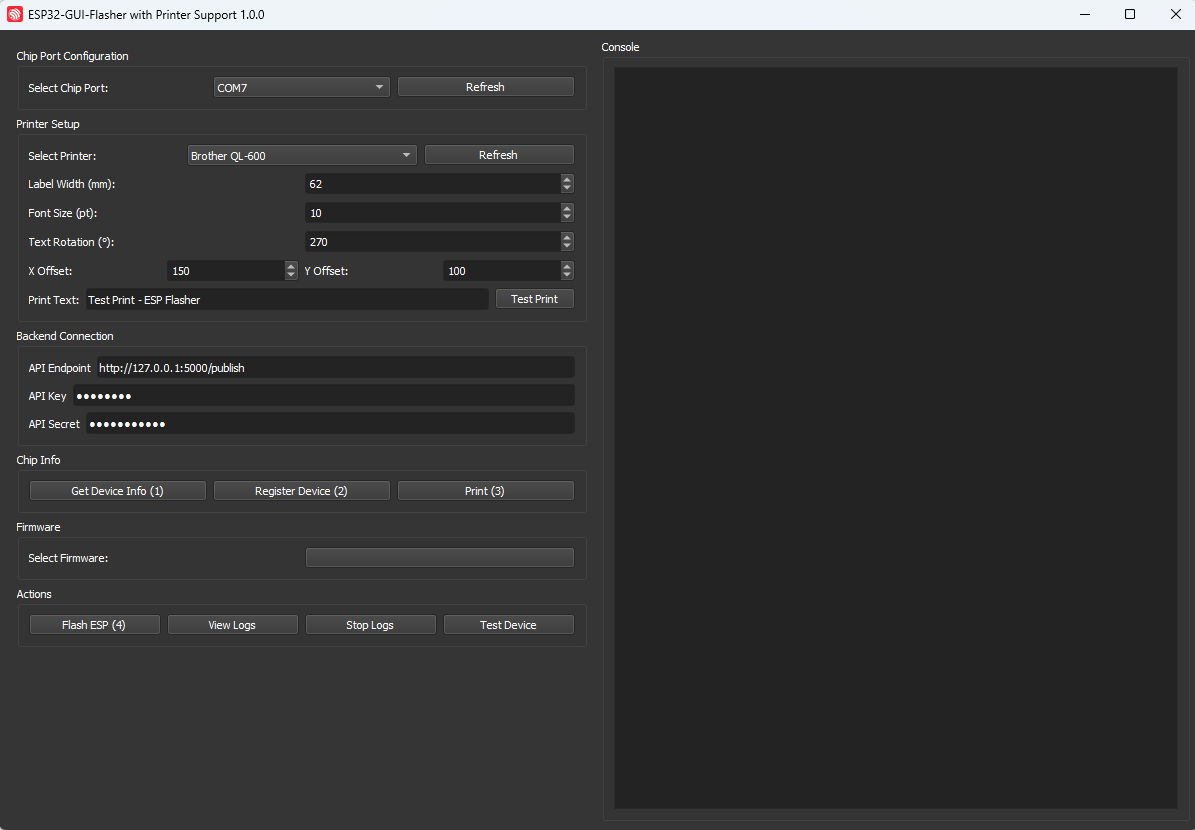
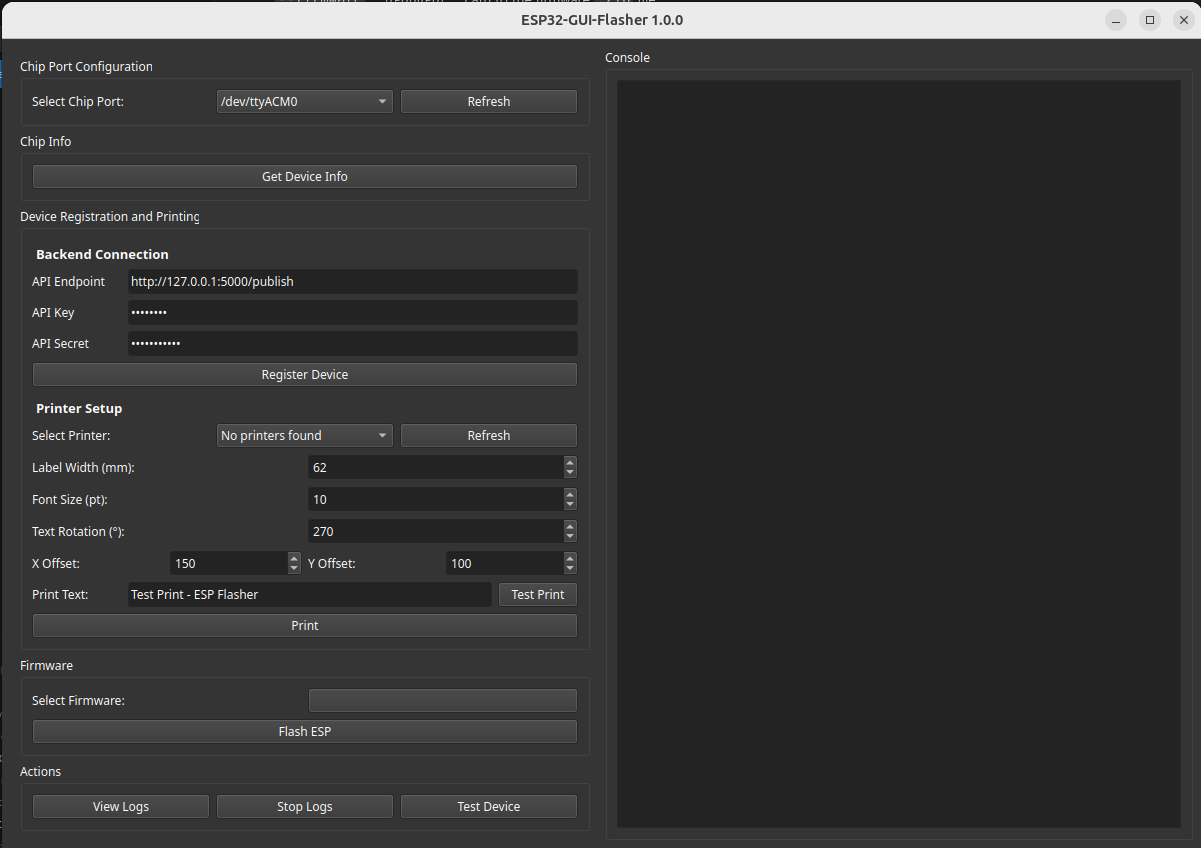
Update docs

diff --git a/README.md b/README.md
@@ -91,7 +91,7 @@ Some of the core functionalities and benefits of ESP32 GUI Flasher include:
 * **Serial Port Detection:** Lists available serial ports (COM ports on Windows, `/dev/tty*` on Linux) for easy selection. A refresh button lets you detect newly plugged devices.
 * **Cross-Platform Printing:** Integrates with the Brother QL series label printers (specifically tested on QL-600) for printing device labels. This uses the [`brother_ql`](https://pypi.org/project/brother-ql/) Python library to send print jobs directly to the printer (via USB or spooler).
 * **Test Print Function:** Allows you to print a test label with custom text to verify printer settings (label alignment, offsets, etc.) before mass printing.
-* **Device Registration Workflow:** Provides fields to input a REST API endpoint, API key, and secret. After flashing, you can fetch a device name or register the device in your system by clicking **Register**, then print a label with that name via **Print** – all within the tool.
+* **Device Registration Workflow:** Provides fields to input a REST API endpoint, API key, and secret. After flashing, you can fetch a device name or register the device in your system by clicking **Register Device**, then print a label with that name via **Print** – all within the tool.
 * **Console Output & Logs:** A built-in console pane shows esptool output, success/error messages, and can stream device logs (after flashing, if you connect to serial logs).
 * **MIT Licensed:** Completely open source ([MIT license](https://github.com/stevanStevic/esp32-gui-flasher/blob/main/LICENSE)) – you can modify and integrate it into your own workflow or contribute improvements.
 
@@ -406,13 +406,13 @@ Keep in mind that label printing in this tool is primarily designed for printing
 
 ## <a name="using-the-esp32-gui-flasher"></a>Using the ESP32 GUI Flasher
 
-When you launch the ESP32 GUI Flasher, you will see the main window divided into sections for Firmware, Chip Port, Backend Connection, Printer Setup, Chip Info, and an action button to flash. There’s also a console output area at the bottom that shows logs and messages.
+When you launch the ESP32 GUI Flasher, you will see the main window divided into sections on the left and a **Console** output area on the right. The left panel contains (from top to bottom): **Chip Port Configuration**, **Chip Info**, any **loaded modules** (e.g. Device Registration and Printing), **Firmware**, and **Actions**.
 
-Here we’ll describe each field/control and how to use it, as well as the general workflow for flashing and printing.
+Here we'll describe each field/control and how to use it, as well as the general workflow for flashing and printing.
 
 ### <a name="selecting-firmware-zip-package"></a>Selecting Firmware (ZIP Package)
 
-The first step is to select your firmware file. In the top section labeled **Firmware**, click the **Browse** button. A file dialog will open, filtered to show `.zip` files. Navigate to your firmware release zip and select it.
+To select your firmware file, go to the **Firmware** section and click the **Select Firmware** button. A file dialog will open, filtered to show `.zip` files. Navigate to your firmware release zip and select it.
 
 You can package the release ZIP with [this script](./scripts/create_release.py). You shall run this script within your project repository after building it with your preferences, even including secure and encrypted build.
 
@@ -423,7 +423,7 @@ You can package the release ZIP with [this script](./scripts/create_release.py).
 * Optionally, encryption keys or other files if needed by your process, though typically not – the `flasher_args` will reference everything needed.
 
 
-When you select the zip, the GUI’s firmware button text will change to the filename, indicating it’s loaded. Internally, the tool reads the `flasher_args.json` from the ZIP. All required fields for flashing (addresses, etc.) are now set in memory. You do not need to specify anything else about the firmware.
+When you select the zip, the button text will change to the file path, indicating it's loaded. Internally, the tool reads the `flasher_args.json` from the ZIP. All required fields for flashing (addresses, etc.) are now set in memory. You do not need to specify anything else about the firmware.
 
 If you selected a zip that does not contain the expected files, the flashing process may fail. Always use the exact output zip from your firmware build. (In ESP-IDF you can create this by running `idf.py archive-flash` or manually zipping the build directory’s flasher files.)
 
@@ -459,37 +459,37 @@ If you intend to use the **Register** feature (described below), fill these in:
 
 The API Key/Secret fields are masked (they won’t show the text as you type, for security). The values you enter here get saved to a config file so you don’t have to re-enter each time (discussed in [Configuration File](#configuration-file-configjson)).
 
-If you are not using any backend service, you can leave these fields blank. The **Register** and **Print** buttons in **Chip Info** section will then prompt you to fill these if you click them, but if you’re not using them, it won’t affect the flashing process at all.
+If you are not using any backend service, you can leave these fields blank. The **Register Device** and **Print** buttons in the **Device Registration and Printing** module section will then prompt you to fill these if you click them, but if you're not using them, it won't affect the flashing process at all.
 
 ### <a name="chip-info-and-device-registration"></a>Chip Info and Device Registration
 
-The **Chip Info** section contains three buttons: **Get Device Info**, **Register**, and **Print** (not to be confused with the **Test Print** in the **Printer** section).
+The **Chip Info** section contains the **Get Device Info** button. The **Register Device** and **Print** buttons are part of the **Device Registration and Printing** module (loaded separately — see [Extending with GUI Modules](#extending-with-gui-modules)).
 
-* **<a name="get-device-info"></a>Get Device Info:** This button will retrieve information from the connected ESP32. Specifically, it runs a command to get the unique MAC address of the ESP32 (and possibly other chip data). When you click this, ensure a port is selected and the device is connected/powered. The tool will clear the console and start a background thread to read the chip info. After a moment, you should see the ESP32 MAC address (and other details) printed in the console or a success message. Internally, the MAC address is stored in the tool,. If no port was selected, you’ll get an error prompt “Device port is missing!”,.
+* **<a name="get-device-info"></a>Get Device Info:** This button will retrieve information from the connected ESP32. Specifically, it runs a command to get the unique MAC address of the ESP32 (and possibly other chip data). When you click this, ensure a port is selected and the device is connected/powered. The tool will clear the console and start a background thread to read the chip info. After a moment, you should see the ESP32 MAC address (and other details) printed in the console or a success message. Internally, the MAC address is stored in the shared `AppState`. If no port was selected, you'll get an error prompt "Device port is missing!".
 
-    This step is mainly needed if you plan to register/label the device. It’s not strictly required just to flash firmware. However, it’s a good idea to do it because the MAC address can confirm that the tool is communicating with the chip properly. It uses `esptool`’s features to read efuse info for MAC.
+    This step is mainly needed if you plan to register/label the device. It's not strictly required just to flash firmware. However, it's a good idea to do it because the MAC address can confirm that the tool is communicating with the chip properly. It uses `esptool`'s features to read efuse info for MAC.
 
-* **<a name="register"></a>Register:** This button will attempt to register the device in your backend system using the API details you provided. When clicked, it checks that API Endpoint/Key/Secret are all provided and that a MAC address has been obtained (you ran **Get Device Info** first). If any of those are missing, it will show an error (e.g., “API endpoint and/or credentials are missing” or “No MAC address found! Click 'Get Device Info' first.”). Assuming all is set, the tool will start a background `RegisterThread` to call your API. The exact behavior depends on your API – you would likely customize this part of the code to fit your service. In general, the thread would send the MAC (and possibly other info) to the API and expect a device name or confirmation in response.
+* **<a name="register"></a>Register Device:** This button (in the **Device Registration and Printing** module section) will attempt to register the device in your backend system using the API details you provided. When clicked, it checks that API Endpoint/Key/Secret are all provided and that a MAC address has been obtained (you ran **Get Device Info** first). If any of those are missing, it will show an error (e.g., "API endpoint and/or credentials are missing" or "No MAC address found! Click 'Get Device Info' first."). Assuming all is set, the tool will start a background `RegisterThread` to call your API. The exact behavior depends on your API – you would likely customize this part of the code to fit your service. In general, the thread would send the MAC (and possibly other info) to the API and expect a device name or confirmation in response.
 
-    If successful, the `RegisterThread` should emit a `device_name_signal` which the GUI handles to store the device name and display a message “Device Registered: \[name]”,. Now the tool knows the friendly name of the device.
+    If successful, the `RegisterThread` should emit a `device_name_signal` which the GUI handles to store the device name and display a message "Device Registered: [name]". Now the tool knows the friendly name of the device.
 
-    If you are not using an API, you can ignore the **Register** button. Alternatively, you could repurpose it: for instance, configure a dummy endpoint that just returns a standardized name or use it in offline mode. But typically, skip if not needed.
+    If you are not using an API, you can ignore the **Register Device** button. Alternatively, you could repurpose it: for instance, configure a dummy endpoint that just returns a standardized name or use it in offline mode. But typically, skip if not needed.
 
-* **<a name="print-device-label"></a>Print (Device Label):** This **Print** button in **Chip Info** is used to print a label for the device after registration. It assumes you have:
+* **<a name="print-device-label"></a>Print (Device Label):** The **Print** button in the **Device Registration and Printing** module section is used to print a label for the device after registration. It assumes you have:
 
     * Selected a printer (Printer Setup done),
-    * Obtained a device name via **Register**,
-    * Or alternatively, you manually set the "Print Text" and use **Test Print** button (if you’re not using the API, the tool doesn’t know what text to print on the label via this button).
+    * Obtained a device name via **Register Device**,
+    * Or alternatively, you manually set the "Print Text" and use the **Test Print** button (if you're not using the API, the tool doesn't know what text to print on the label via this button).
 
-    When you click **Print**, it will check that a printer is selected and a device name is available,. If not, you get an error (e.g., “No printer port selected!” or “Device name not obtained, first Register the device.”),. If all is well, it gathers the current printer settings (width, rotation, offsets, font) from the **Printer Setup** section and starts a print job (similar to the **Test Print**, but using the stored device name as the text),. This runs in a thread and will show a success or error message accordingly (usually “Print job sent successfully.” on success).
+    When you click **Print**, it will check that a printer is selected and a device name is available. If not, you get an error (e.g., "No printer port selected!" or "Device name not obtained, first Register the device."). If all is well, it gathers the current printer settings (width, rotation, offsets, font) from the **Printer Setup** area and starts a print job (similar to the **Test Print**, but using the stored device name as the text). This runs in a thread and will show a success or error message accordingly (usually "Print job sent successfully." on success).
 
-    Essentially, this is the one-click final step to label your device with the assigned name after flashing and registering. If you didn’t use the **Register** feature, you can’t use this button to print a name (since no `_device_name` exists). In that case, use the **Test Print** in **Printer Setup** to print a custom text label – for example, you could manually type the device’s MAC or any identifier in the text field and print it.
+    Essentially, this is the one-click final step to label your device with the assigned name after flashing and registering. If you didn't use the **Register Device** feature, you can't use this button to print a name (since no device name exists). In that case, use the **Test Print** in **Printer Setup** to print a custom text label – for example, you could manually type the device's MAC or any identifier in the text field and print it.
 
 ### <a name="flashing-the-esp32"></a>Flashing the ESP32
 
 With firmware selected and the serial port chosen, you’re ready to flash:
 
-* Click the **Flash ESP** button (sometimes labeled just “Flash” or “Flash ESP32” depending on the version). The tool will respond by first ensuring no flash operation is already running (to avoid duplicates). Then it will print “Starting flashing process...” in the console.
+* Click the **Flash ESP** button. The tool will respond by first ensuring no flash operation is already running (to avoid duplicates). Then it will print "Starting flashing process..." in the console.
 * The flashing runs in a background thread to keep the GUI responsive. You’ll see output similar to `esptool`’s logs in the console area. This includes messages like connecting, erasing flash (if applicable), writing each segment, and the progress percentages. All the necessary addresses and files are fed to `esptool` according to the `flasher_args.json` – you don’t have to worry about any offsets.
 * **Do not disconnect power or reset the board during this process.** It typically takes a few seconds to a minute, depending on the size of your firmware and the baud rate used (the tool by default uses a high baud rate like 460800 or 921600 for ESP32).
 * On completion, you will see a success message or an error:
@@ -497,7 +497,7 @@ With firmware selected and the serial port chosen, you’re ready to flash:
     * If there’s an error (e.g., unable to connect, or a file not found), an error message will be shown. Common issues could be wrong port, device not in bootloader mode, or incorrect firmware package format.
 * After a successful flash, the ESP32 will reset and boot into the new firmware.
 
-If the firmware you flashed starts sending logs to UART, you can click a **View Logs** button to begin a log thread that prints serial output to the console in real-time. This is helpful to verify the firmware is running as expected. The log thread can be stopped as well. (This functionality is similar to running `idf.py monitor` or `esptool.py --monitor`). If your version of the tool has the **ViewLogs** button, use it after flashing to see device output.
+If the firmware you flashed starts sending logs to UART, you can click the **View Logs** button in the **Actions** section to begin a log thread that prints serial output to the console in real-time. This is helpful to verify the firmware is running as expected. Click **Stop Logs** to end the stream. You can also click **Test Device** to manually trigger a log-based test at any time. (This functionality is similar to running `idf.py monitor` or `esptool.py --monitor`.)
 
 ### <a name="printing-a-device-label-1"></a>Printing a Device Label
 
@@ -506,12 +506,12 @@ This step is optional and only applicable if you have the printer connected and 
 If you followed the earlier sections:
 
 * You got the MAC address via **Get Device Info**.
-* You clicked **Register** and the tool acquired a Device Name (for example, “Device-42”) from your system.
+* You clicked **Register Device** and the tool acquired a Device Name (for example, "Device-42") from your system.
 * You have the Printer selected and configured.
 
-Now simply click **Print** in the **Chip Info** section. The label should print out with the device’s name.
+Now simply click **Print** in the **Device Registration and Printing** module section. The label should print out with the device's name.
 
-If you are not using the **Register** feature but still want to print a label:
+If you are not using the **Register Device** feature but still want to print a label:
 
 * Enter the text you want in the **Print Text** field under **Printer Setup**.
 * Click **Test Print** which effectively prints that text with the current settings.
